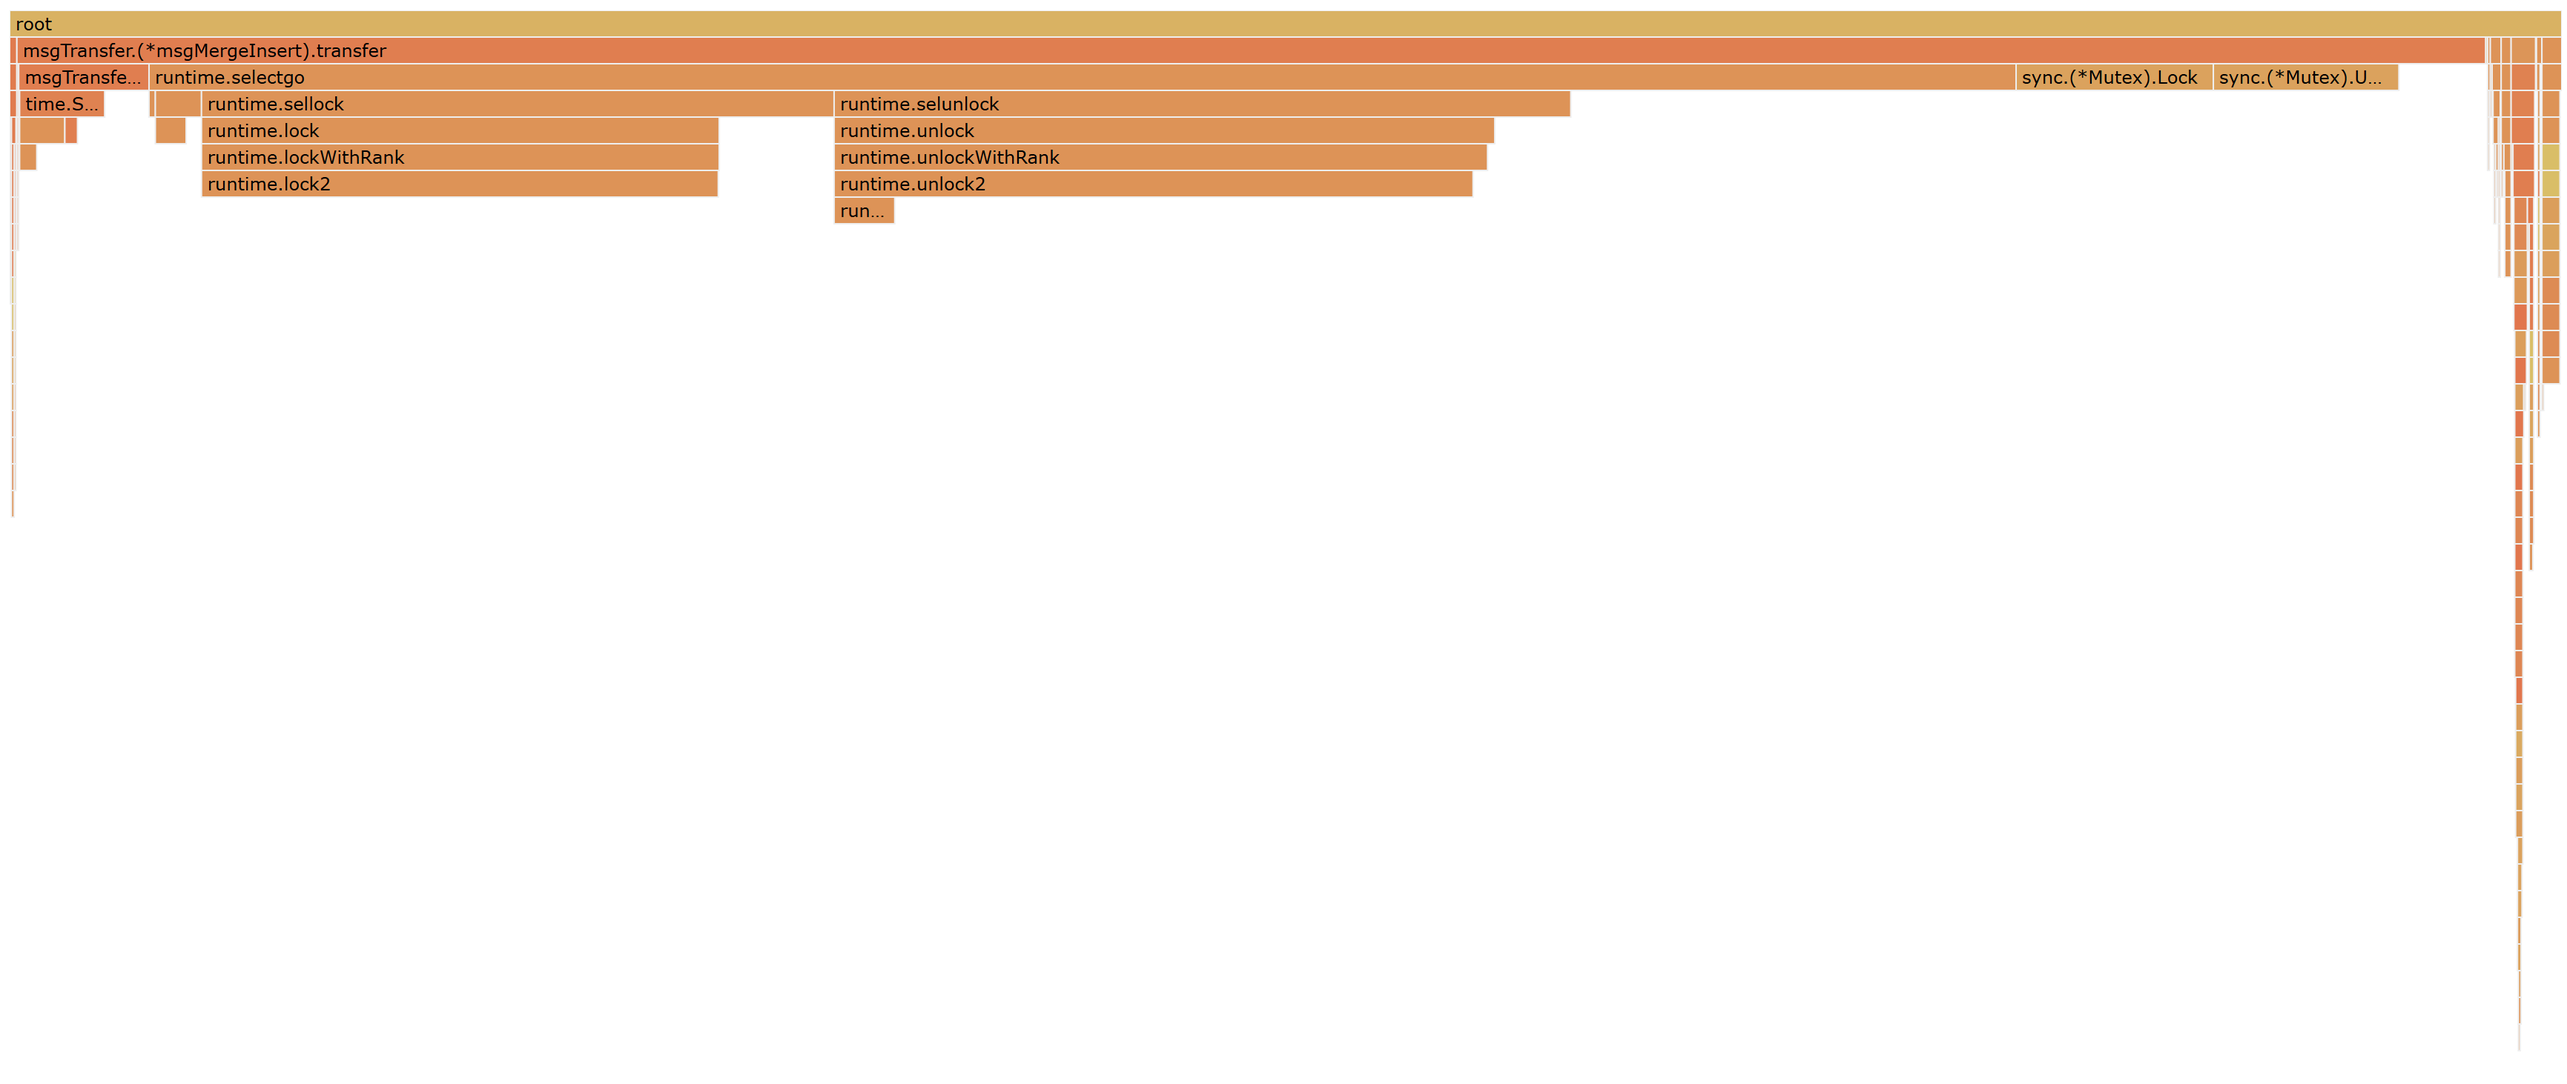
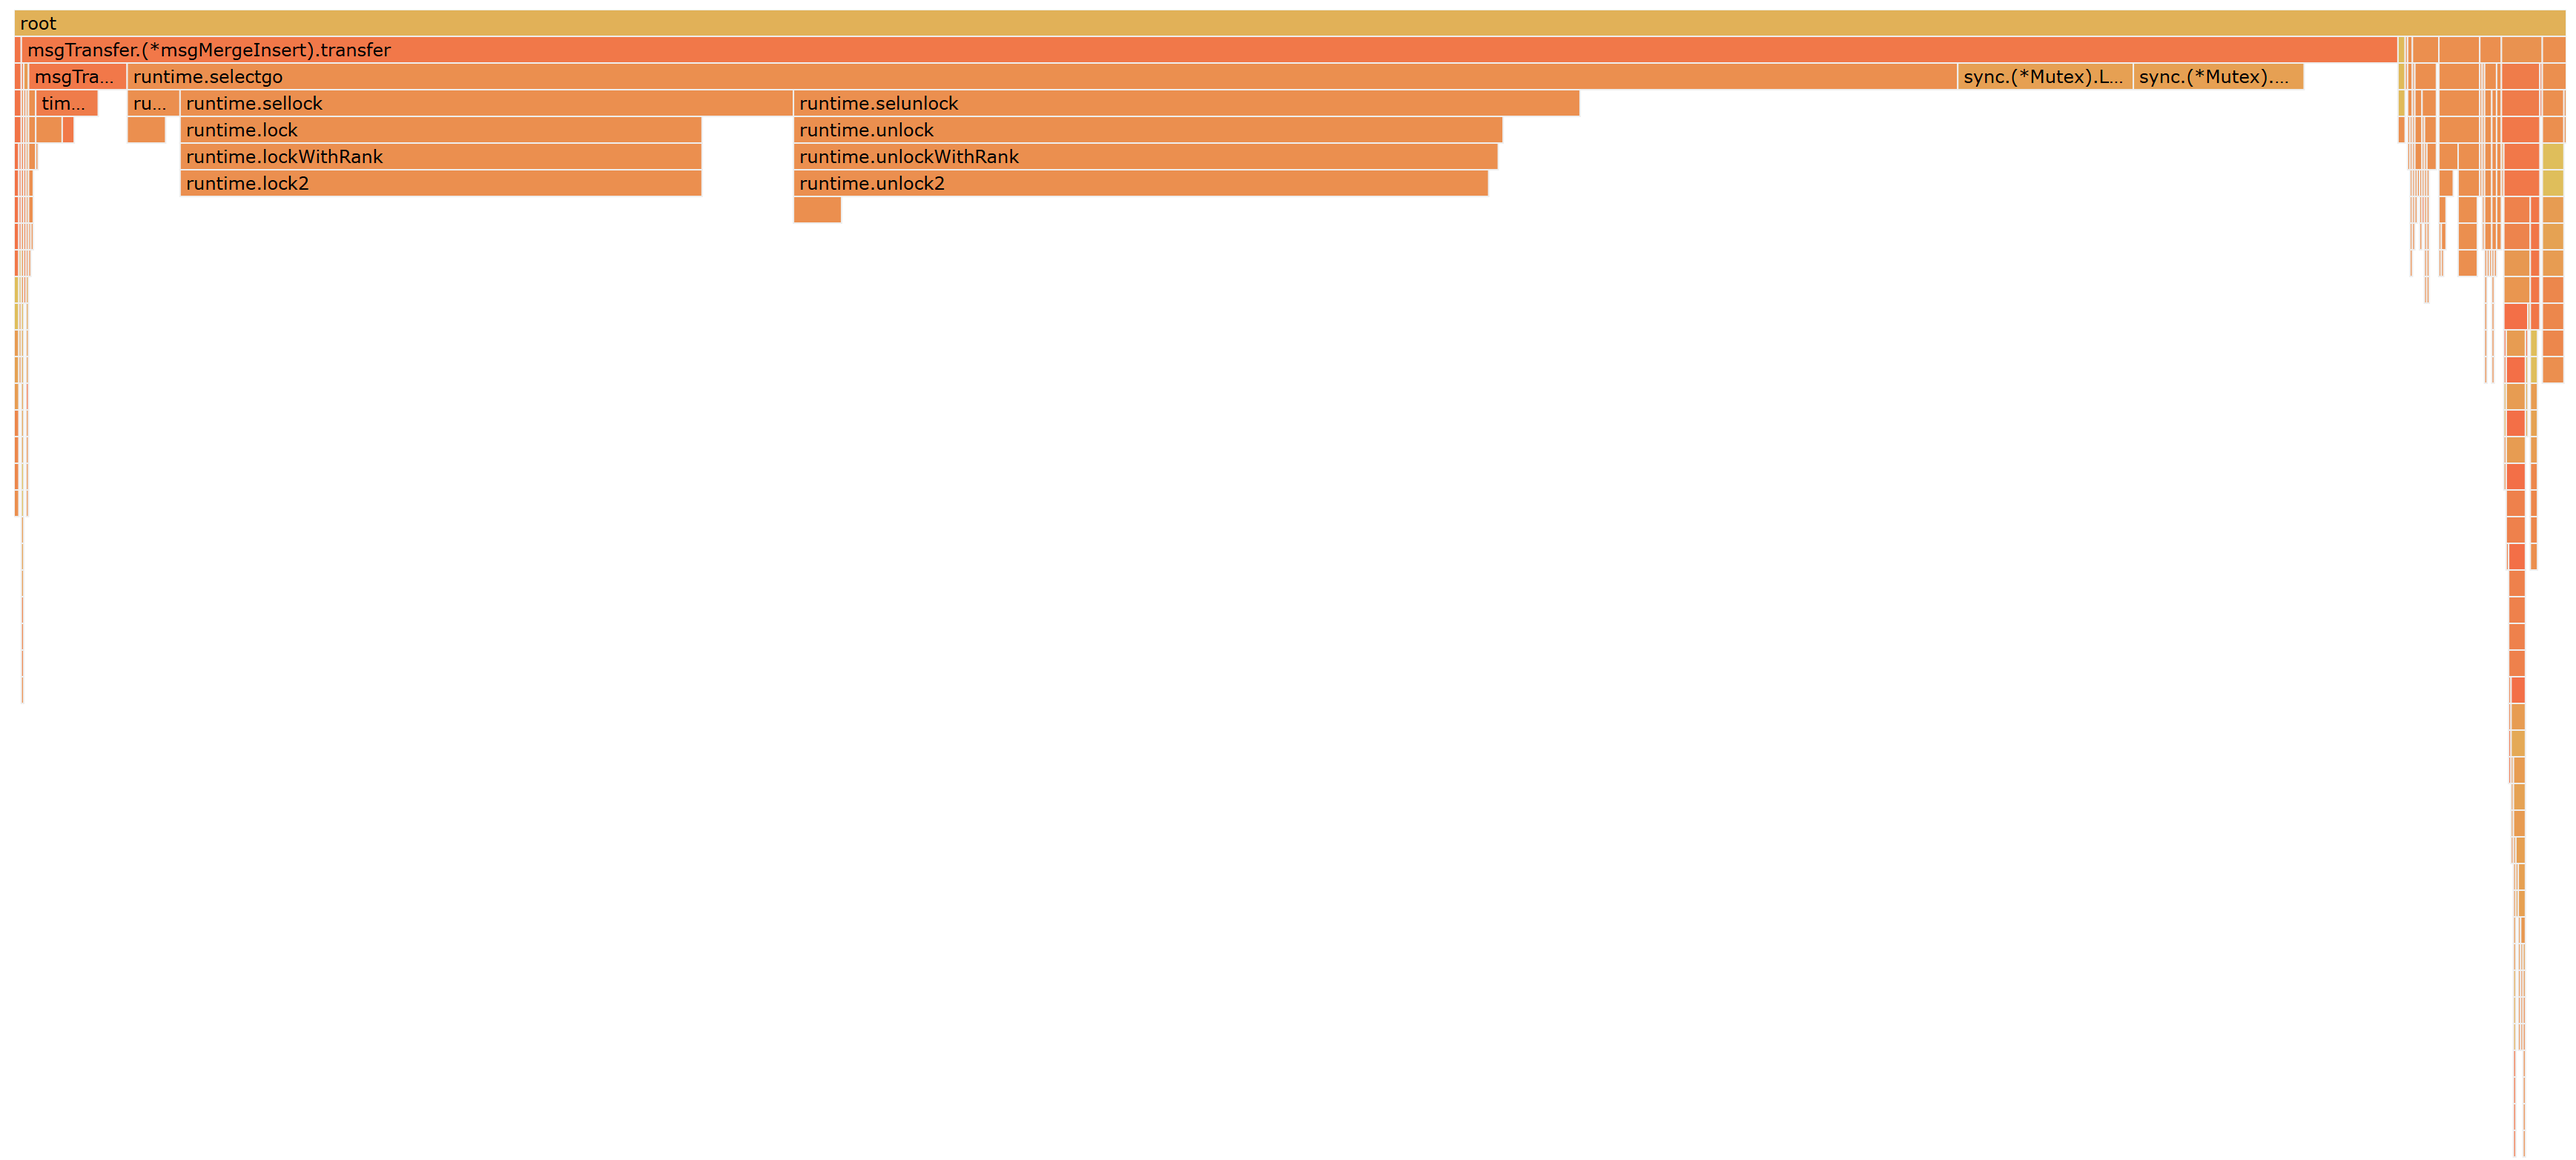
解决死锁bug 问题： 1. c/s同时使用websocket的connection,因此需要加锁 2. websocket的connection是会阻塞的 因此要注意锁的使用，server中检测空闲的锁不能把websocket的读写操作锁住

Changed region(s): [[0.0, 0.0, 0.9983, 0.892]]

diff --git a/apps/task/mq/internal/handler/msgTransfer/msgChatMergeInsert.go b/apps/task/mq/internal/handler/msgTransfer/msgChatMergeInsert.go
@@ -16,7 +16,7 @@ type msgMergeInsert struct {
 	conversationId string
 	chatLogs       []*immodels.ChatLog
 	chatLogCh      chan *immodels.ChatLog
-	count          int
+	//count          int
 	// 上次推送时间
 	pushTime time.Time
 	done     chan struct{}
@@ -27,10 +27,10 @@ func newMsgMergeInsert(chatLog *immodels.ChatLog, chatLogCh chan *immodels.ChatL
 		conversationId: chatLog.ConversationId,
 		chatLogs:       make([]*immodels.ChatLog, 0, GroupMsgInsertRecordDelayCount+10),
 		chatLogCh:      chatLogCh,
-		count:          1,
-		pushTime:       time.Now(),
-		done:           make(chan struct{}),
-		svcCtx:         svc,
+		//count:          1,
+		pushTime: time.Now(),
+		done:     make(chan struct{}),
+		svcCtx:   svc,
 	}
 	m.chatLogs = append(m.chatLogs, chatLog)
 
@@ -42,7 +42,7 @@ func newMsgMergeInsert(chatLog *immodels.ChatLog, chatLogCh chan *immodels.ChatL
 func (m *msgMergeInsert) mergeChatLog(chatLog *immodels.ChatLog) {
 	m.mu.Lock()
 	defer m.mu.Unlock()
-	m.count++
+	//m.count++
 	m.chatLogs = append(m.chatLogs, chatLog)
 }
 
@@ -61,7 +61,7 @@ func (m *msgMergeInsert) transfer() {
 			val := GroupMsgInsertRecordDelayTime - time.Since(pushTime)
 			chatLogs := m.chatLogs
 			// 未到达释放要求
-			if val > 0 && m.count < GroupMsgInsertRecordDelayCount || chatLogs == nil {
+			if val > 0 || chatLogs == nil {
 				if val > 0 {
 					timer.Reset(val)
 				}
@@ -71,7 +71,7 @@ func (m *msgMergeInsert) transfer() {
 			// 达到释放要求
 			m.pushTime = time.Now()
 			m.chatLogs = nil
-			m.count = 0
+			//m.count = 0
 			timer.Reset(GroupMsgInsertRecordDelayTime / 2)
 			// 推送
 			logx.Infof("超过等待时间合并条件，写入数据库  %v", chatLogs)
@@ -79,22 +79,22 @@ func (m *msgMergeInsert) transfer() {
 			m.svcCtx.ChatLogModel.InsertMany(ctx, chatLogs)
 			m.svcCtx.ConversationModel.UpdateMsg(ctx, chatLogs[len(chatLogs)-1])
 		default:
-			m.mu.Lock()
-			if m.count >= GroupMsgInsertRecordDelayCount {
-				chatLogs := m.chatLogs
-				m.chatLogs = nil
-				m.count = 0
-
-				logx.Infof("达到合并量, 写入数据库 %v", chatLogs)
-				m.mu.Unlock()
-				m.svcCtx.ChatLogModel.InsertMany(ctx, chatLogs)
-				m.svcCtx.ConversationModel.UpdateMsg(ctx, chatLogs[len(chatLogs)-1])
-				continue
-			}
+			//m.mu.Lock()
+			//if m.count >= GroupMsgInsertRecordDelayCount {
+			//	chatLogs := m.chatLogs
+			//	m.chatLogs = nil
+			//	m.count = 0
+			//
+			//	logx.Infof("达到合并量, 写入数据库 %v", chatLogs)
+			//	m.mu.Unlock()
+			//	m.svcCtx.ChatLogModel.InsertMany(ctx, chatLogs)
+			//	m.svcCtx.ConversationModel.UpdateMsg(ctx, chatLogs[len(chatLogs)-1])
+			//	continue
+			//}
 
 			// 该对象长时间没有达到释放要求，清空并推送消息以节省资源
-			if m.isIdle() {
-				m.mu.Unlock()
+			if m.IsIdle() {
+				//m.mu.Unlock()
 				//使得MsgInsertTransfer 清理
 				m.chatLogCh <- &immodels.ChatLog{
 					ChatType:       constants.GroupChatType,
@@ -102,7 +102,7 @@ func (m *msgMergeInsert) transfer() {
 				}
 				continue
 			}
-			m.mu.Unlock()
+			//m.mu.Unlock()
 			//tempDelay := GroupMsgInsertRecordDelayTime / 4
 			//if tempDelay > time.Second {
 			//	tempDelay = time.Second
@@ -121,8 +121,8 @@ func (m *msgMergeInsert) IsIdle() bool {
 func (m *msgMergeInsert) isIdle() bool {
 	pushTime := m.pushTime
 	val := GroupMsgInsertRecordDelayTime*2 - time.Since(pushTime)
-
-	if val <= 0 && m.chatLogs == nil && m.count == 0 {
+	if val <= 0 && m.chatLogs == nil {
+		//if val <= 0 && m.chatLogs == nil && m.count == 0 {
 		return true
 	}
 	return false
